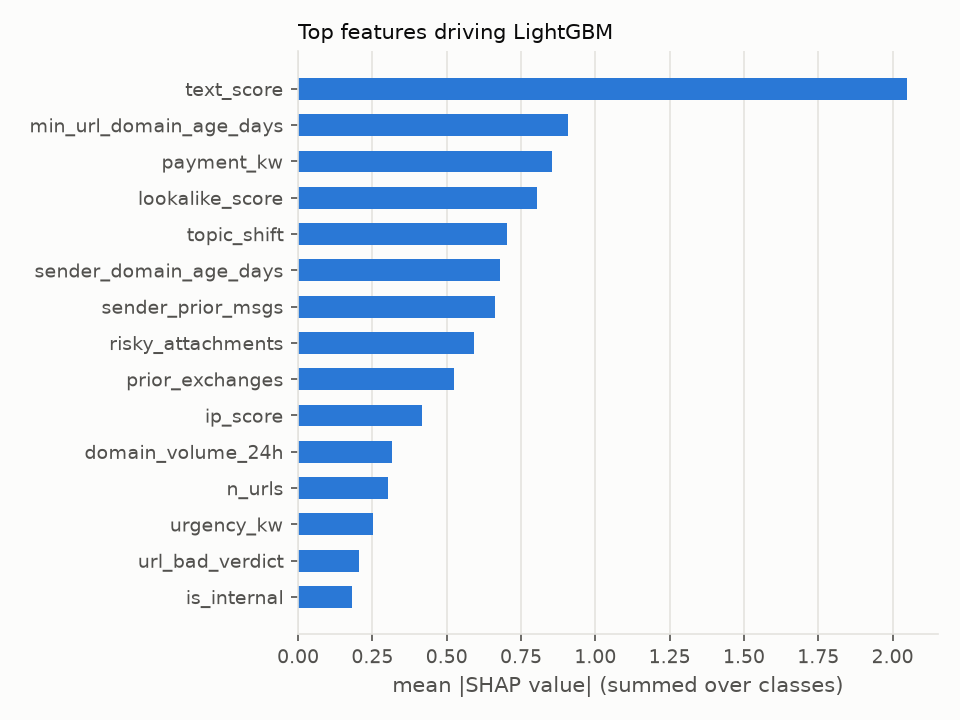
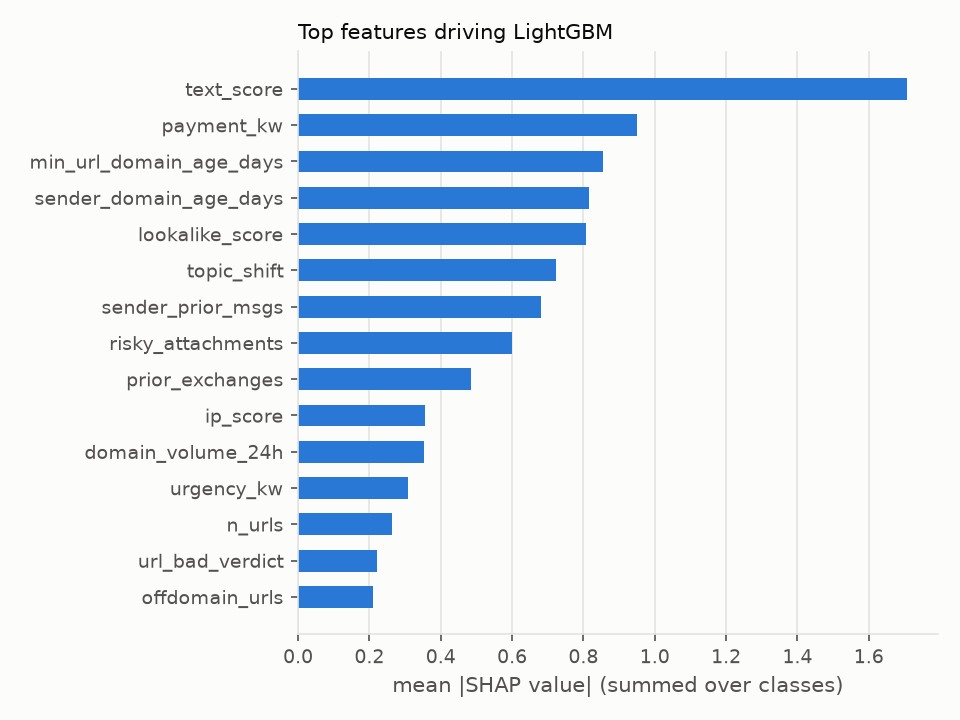
Text model: mask names, sentence-bounded bigrams; report top TF-IDF terms
The text model had learned signatures (company suffixes, sender names, 'IT Service Desk')
and bigrams spanning sentence breaks. Mask the sender display name and recipient first
name, build bigrams within sentences only. Text-only PR-AUC 0.860, full model 0.993.

diff --git a/src/eval/report.py b/src/eval/report.py
@@ -143,6 +143,16 @@ def shap_importance(model: LGBMClassifier, X: pd.DataFrame, top: int = 15) -> pd
     return pd.Series(np.abs(arr).mean(0).sum(-1), index=X.columns).nlargest(top)
 
 
+def text_terms(text_model: dict, n: int = 15) -> pd.DataFrame:
+    """Words / phrases with the largest logistic-regression weights in each direction."""
+    names = text_model["vectorizer"].get_feature_names_out()
+    coef = text_model["lr"].coef_[0]
+    order = np.argsort(coef)
+    return pd.DataFrame({"toward attack": [f"{names[i]} ({coef[i]:+.2f})" for i in order[::-1][:n]],
+                         "toward legit": [f"{names[i]} ({coef[i]:+.2f})" for i in order[:n]]},
+                        index=range(1, n + 1))
+
+
 # ---- cost ----------------------------------------------------------------------------------
 def cost_estimate(cfg: dict, res: pd.DataFrame, compute_ms: float) -> pd.DataFrame:
     c = cfg["cost"]
@@ -225,6 +235,7 @@ def main() -> None:
     cost = cost_estimate(cfg, df, compute_ms)
 
     imp = shap_importance(lgbm, df[FEATURES])
+    terms = text_terms(joblib.load(Path(cfg["paths"]["models"]) / "text_model.joblib"))
     plot_confusion(cm, list(CATEGORIES), out_dir / "confusion_matrix.png")
     plot_shap(imp, out_dir / "shap_top_features.png")
 
@@ -273,6 +284,13 @@ bannered: **{int(hard_tbl.loc[hard_tbl.index.str.startswith('hard_neg'), 'banner
 
 {table(imp.rename("mean |SHAP|").to_frame(), {"mean |SHAP|": ".3f"})}
 
+### What the text model learned
+
+Top TF-IDF terms by logistic-regression weight (URLs, sender display names and the recipient's name are
+masked before vectorising; bigrams never cross a sentence boundary).
+
+{table(terms)}
+
 ## Latency
 
 End-to-end synchronous latency per email: measured compute (features, rules, both models, intent
@@ -303,7 +321,7 @@ sandbox (${cfg['cost']['sandbox_usd']}), and only when the email was not already
     metrics = {"ablation": ablation.to_dict(orient="index"), "per_class": per_class.to_dict(orient="index"),
                "latency_ms": latency.iloc[0].to_dict(), "tier_share": tiers.to_dict(),
                "cost_per_mailbox_month": float(cost["usd_per_mailbox_month"].iloc[-1]),
-               "shap_top": imp.to_dict()}
+               "shap_top": imp.to_dict(), "text_terms": terms.to_dict(orient="list")}
     (out_dir / "metrics.json").write_text(json.dumps(metrics, indent=1, default=float))
     print(table(ablation, pct | {"pr_auc": ".3f", "hard_neg_fp": ".0f", "legit_fp": ".0f"}))
     print()

diff --git a/src/models/text.py b/src/models/text.py
@@ -1,6 +1,8 @@
 """TF-IDF + logistic regression text score (P(malicious) from subject + body)."""
 from __future__ import annotations
 
+import re
+
 import numpy as np
 from scipy.sparse import csr_matrix
 from sklearn.feature_extraction.text import TfidfVectorizer
@@ -8,8 +10,21 @@ from sklearn.linear_model import LogisticRegression
 from sklearn.model_selection import StratifiedKFold
 
 
+_SENTENCE = re.compile(r"[.!?\n]+")
+_WORD = re.compile(r"\b\w\w+\b")
+
+
+def sentence_ngrams(text: str) -> list[str]:
+    """Unigrams + bigrams that never cross a sentence boundary ("...assigned. Cheers" is not a bigram)."""
+    out: list[str] = []
+    for sentence in _SENTENCE.split(text.lower()):
+        words = _WORD.findall(sentence)
+        out += words + [f"{a} {b}" for a, b in zip(words, words[1:])]
+    return out
+
+
 def make_vectorizer() -> TfidfVectorizer:
-    return TfidfVectorizer(ngram_range=(1, 2), min_df=2, max_features=30000, sublinear_tf=True)
+    return TfidfVectorizer(analyzer=sentence_ngrams, min_df=2, max_features=30000, sublinear_tf=True)
 
 
 def make_lr(seed: int) -> LogisticRegression:

diff --git a/src/features/extract.py b/src/features/extract.py
@@ -55,8 +55,18 @@ URL_RE = re.compile(r"\S+://\S+")
 
 
 def email_text(e: Email) -> str:
-    """Subject + body with URLs masked: the text model reads language, URL features judge links."""
-    return URL_RE.sub(" URL ", f"{e.subject}\n{e.body}")
+    """Subject + body with URLs and names masked.
+
+    The text model should judge what an email *says*. Links are judged by the URL features and
+    identity by the sender features; leaving them in lets the text model memorise signatures
+    ("Acme Ltd", "IT Service Desk") instead of learning language.
+    """
+    text = URL_RE.sub(" URL ", f"{e.subject}\n{e.body}")
+    first_name = re.split(r"[._\-+\d]+", e.to_addr.split("@")[0])[0]
+    names = [n for n in (e.from_display.strip(), first_name) if len(n) >= 2]   # whole names only
+    if names:
+        text = re.sub(r"(?<!\w)(" + "|".join(map(re.escape, names)) + r")(?!\w)", " ", text, flags=re.I)
+    return text
 
 
 def lookalike_score(domain: str, protected: set[str]) -> float:

diff --git a/reports/eval_report.md b/reports/eval_report.md
@@ -12,22 +12,22 @@ blank for the cascade rows. Hard negatives in test: 247.
 |  | precision | recall | f1 | pr_auc | bec_recall | hard_pos_recall | hard_neg_fp | legit_fp |
 |---|---|---|---|---|---|---|---|---|
 | Rules only (Tier 0 block) | 100.0% | 17.0% | 29.1% | 0.585 | 59.4% | 0.0% | 0 | 0 |
-| Text only (TF-IDF + LR) | 63.1% | 85.1% | 72.4% | 0.896 | 85.5% | 69.7% | 44 | 193 |
+| Text only (TF-IDF + LR) | 53.7% | 87.4% | 66.5% | 0.860 | 92.8% | 81.8% | 85 | 292 |
 | Metadata only (no text features) | 96.5% | 93.0% | 94.8% | 0.985 | 84.1% | 36.4% | 13 | 13 |
-| Full model (LightGBM) | 100.0% | 95.4% | 97.6% | 0.993 | 97.1% | 45.5% | 0 | 0 |
-| Full cascade (blocked) | 99.7% | 93.6% | 96.5% | – | 94.2% | 27.3% | 1 | 1 |
-| Full cascade (blocked or banner) | 98.4% | 96.1% | 97.3% | – | 97.1% | 54.5% | 6 | 6 |
-| Full cascade + async virus scan | 98.4% | 96.1% | 97.3% | – | 97.1% | 54.5% | 6 | 6 |
+| Full model (LightGBM) | 100.0% | 95.9% | 97.9% | 0.993 | 97.1% | 51.5% | 0 | 0 |
+| Full cascade (blocked) | 99.2% | 94.1% | 96.6% | – | 95.7% | 33.3% | 3 | 3 |
+| Full cascade (blocked or banner) | 98.7% | 95.9% | 97.3% | – | 97.1% | 54.5% | 5 | 5 |
+| Full cascade + async virus scan | 98.7% | 95.9% | 97.3% | – | 97.1% | 54.5% | 5 | 5 |
 
 ## Per-class results (full cascade + async scan)
 
 |  | precision | recall | f1 | support | pr_auc (LightGBM) |
 |---|---|---|---|---|---|
-| legit | 99.1% | 99.6% | 99.3% | 1575 | 0.999 |
-| spam | 100.0% | 100.0% | 100.0% | 137 | 1.000 |
-| phishing | 100.0% | 91.9% | 95.8% | 111 | 0.994 |
-| bec | 91.8% | 97.1% | 94.4% | 69 | 0.991 |
-| malware | 100.0% | 94.4% | 97.1% | 71 | 0.998 |
+| legit | 99.0% | 99.7% | 99.3% | 1575 | 0.999 |
+| spam | 98.6% | 100.0% | 99.3% | 137 | 1.000 |
+| phishing | 100.0% | 91.9% | 95.8% | 111 | 0.995 |
+| bec | 95.7% | 95.7% | 95.7% | 69 | 0.988 |
+| malware | 98.5% | 93.0% | 95.7% | 71 | 0.996 |
 
 **BEC** is the class that matters most and is hardest: no links, no attachments to scan, often sent from a
 real or freemail account. BEC actions by scenario:
@@ -40,17 +40,17 @@ real or freemail account. BEC actions by scenario:
 | bec:vendor_invoice | 0 | 29 | 0 |
 | bec:wire_freemail | 0 | 1 | 0 |
 | bec:wire_lookalike | 0 | 14 | 0 |
-| hard_pos:compromised_vendor | 2 | 1 | 2 |
+| hard_pos:compromised_vendor | 2 | 2 | 1 |
 
 ### Actions per true class
 
 |  | DELIVER | WARNING_BANNER | SPAM_FOLDER | QUARANTINE |
 |---|---|---|---|---|
-| legit | 1569 | 5 | 0 | 1 |
+| legit | 1570 | 2 | 1 | 2 |
 | spam | 0 | 0 | 137 | 0 |
-| phishing | 9 | 5 | 0 | 97 |
-| bec | 2 | 2 | 0 | 65 |
-| malware | 4 | 3 | 0 | 64 |
+| phishing | 9 | 6 | 0 | 96 |
+| bec | 2 | 1 | 0 | 66 |
+| malware | 5 | 0 | 0 | 66 |
 
 ![Confusion matrix](confusion_matrix.png)
 
@@ -59,25 +59,25 @@ real or freemail account. BEC actions by scenario:
 Hard positives are attacks from real, trusted accounts or with copied legit wording; hard negatives
 are legit mail that looks risky. Recall on hard positives (any action but DELIVER):
 **54.5%**. Hard negatives
-blocked: **1**,
-bannered: **5**.
+blocked: **3**,
+bannered: **2**.
 
 |  | n | blocked | banner | delivered |
 |---|---|---|---|---|
-| hard_neg:encrypted_zip | 16 | 0 | 0 | 16 |
+| hard_neg:encrypted_zip | 16 | 1 | 0 | 15 |
 | hard_neg:exec_gift_cards | 17 | 0 | 0 | 17 |
 | hard_neg:exec_urgent_payment | 39 | 0 | 0 | 39 |
 | hard_neg:internal_tool | 21 | 0 | 0 | 21 |
 | hard_neg:it_password | 35 | 0 | 0 | 35 |
 | hard_neg:new_vendor | 17 | 0 | 0 | 17 |
-| hard_neg:personal_account | 18 | 0 | 0 | 18 |
+| hard_neg:personal_account | 18 | 1 | 0 | 17 |
 | hard_neg:promo | 12 | 0 | 0 | 12 |
 | hard_neg:rebrand | 20 | 0 | 0 | 20 |
 | hard_neg:vendor_bank_change | 15 | 0 | 0 | 15 |
-| hard_neg:vendor_payment_request | 37 | 1 | 5 | 31 |
-| hard_pos:compromised_account | 22 | 8 | 5 | 9 |
-| hard_pos:compromised_vendor | 5 | 1 | 2 | 2 |
-| hard_pos:password_zip | 6 | 0 | 2 | 4 |
+| hard_neg:vendor_payment_request | 37 | 1 | 2 | 34 |
+| hard_pos:compromised_account | 22 | 8 | 6 | 8 |
+| hard_pos:compromised_vendor | 5 | 2 | 1 | 2 |
+| hard_pos:password_zip | 6 | 1 | 0 | 5 |
 
 ## What drives the model (SHAP)
 
@@ -85,21 +85,44 @@ bannered: **5**.
 
 |  | mean |SHAP| |
 |---|---|
-| text_score | 2.049 |
-| min_url_domain_age_days | 0.907 |
-| payment_kw | 0.854 |
-| lookalike_score | 0.805 |
-| topic_shift | 0.703 |
-| sender_domain_age_days | 0.681 |
-| sender_prior_msgs | 0.661 |
-| risky_attachments | 0.592 |
-| prior_exchanges | 0.523 |
-| ip_score | 0.416 |
-| domain_volume_24h | 0.316 |
-| n_urls | 0.303 |
-| urgency_kw | 0.253 |
-| url_bad_verdict | 0.204 |
-| is_internal | 0.181 |
+| text_score | 1.707 |
+| payment_kw | 0.951 |
+| min_url_domain_age_days | 0.856 |
+| sender_domain_age_days | 0.816 |
+| lookalike_score | 0.806 |
+| topic_shift | 0.723 |
+| sender_prior_msgs | 0.682 |
+| risky_attachments | 0.600 |
+| prior_exchanges | 0.485 |
+| ip_score | 0.356 |
+| domain_volume_24h | 0.352 |
+| urgency_kw | 0.308 |
+| n_urls | 0.262 |
+| url_bad_verdict | 0.222 |
+| offdomain_urls | 0.210 |
+
+### What the text model learned
+
+Top TF-IDF terms by logistic-regression weight (URLs, sender display names and the recipient's name are
+masked before vectorising; bigrams never cross a sentence boundary).
+
+|  | toward attack | toward legit |
+|---|---|---|
+| 1 | authentication today (+2.20) | unchanged (-2.69) |
+| 2 | account (+2.07) | are unchanged (-2.69) |
+| 3 | here url (+1.96) | payment details (-2.52) |
+| 4 | here (+1.94) | details are (-2.41) |
+| 5 | last email (+1.93) | walk (-2.37) |
+| 6 | on my (+1.93) | are (-2.30) |
+| 7 | last (+1.93) | walk through (-2.29) |
+| 8 | book (+1.93) | through it (-2.29) |
+| 9 | my last (+1.93) | it on (-2.29) |
+| 10 | time here (+1.93) | to walk (-2.29) |
+| 11 | book time (+1.93) | the (-2.16) |
+| 12 | purchase (+1.92) | from (-2.06) |
+| 13 | purchase order (+1.75) | through (-2.02) |
+| 14 | 47 (+1.68) | hi (-1.99) |
+| 15 | the updated (+1.62) | on (-1.97) |
 
 ## Latency
 
@@ -110,9 +133,9 @@ deadline 5000 ms.
 
 |  | p50 | p95 | p99 | max |
 |---|---|---|---|---|
-| end-to-end ms | 9.7 | 22.5 | 28.3 | 68.3 |
+| end-to-end ms | 9.7 | 22.6 | 28.3 | 72.3 |
 
-Decided at Tier 0: 3.4%, Tier 1: 95.5%, Tier 2 (gray zone): 1.2%.
+Decided at Tier 0: 3.4%, Tier 1: 95.5%, Tier 2 (gray zone): 1.1%.
 The virus scan runs asynchronously; it pulled 0 delivered emails after the fact (median
 nan ms after arrival).
 
@@ -125,12 +148,12 @@ $0.04/vCPU-hour with a 3.0x overhead on measured compute,
 scan ($5e-05); only archives, macro documents and executables / disk images go to the
 sandbox ($0.002), and only when the email was not already quarantined. Measured on this run:
 2.7 lookups, 0.25 attachments and
-0.023 sandbox submissions per email.
+0.021 sandbox submissions per email.
 
 | item | usd_per_mailbox_month | share_of_budget |
 |---|---|---|
 | Compute (features, rules, models) | 0.0001 | 0.0% |
 | Reputation / WHOIS lookups | 0.0975 | 32.5% |
 | Static AV scan (every attachment) | 0.0226 | 7.5% |
-| Sandbox (risky types, not quarantined) | 0.0825 | 27.5% |
-| **Total** | 0.2028 | 67.6% |
+| Sandbox (risky types, not quarantined) | 0.0770 | 25.7% |
+| **Total** | 0.1973 | 65.8% |
